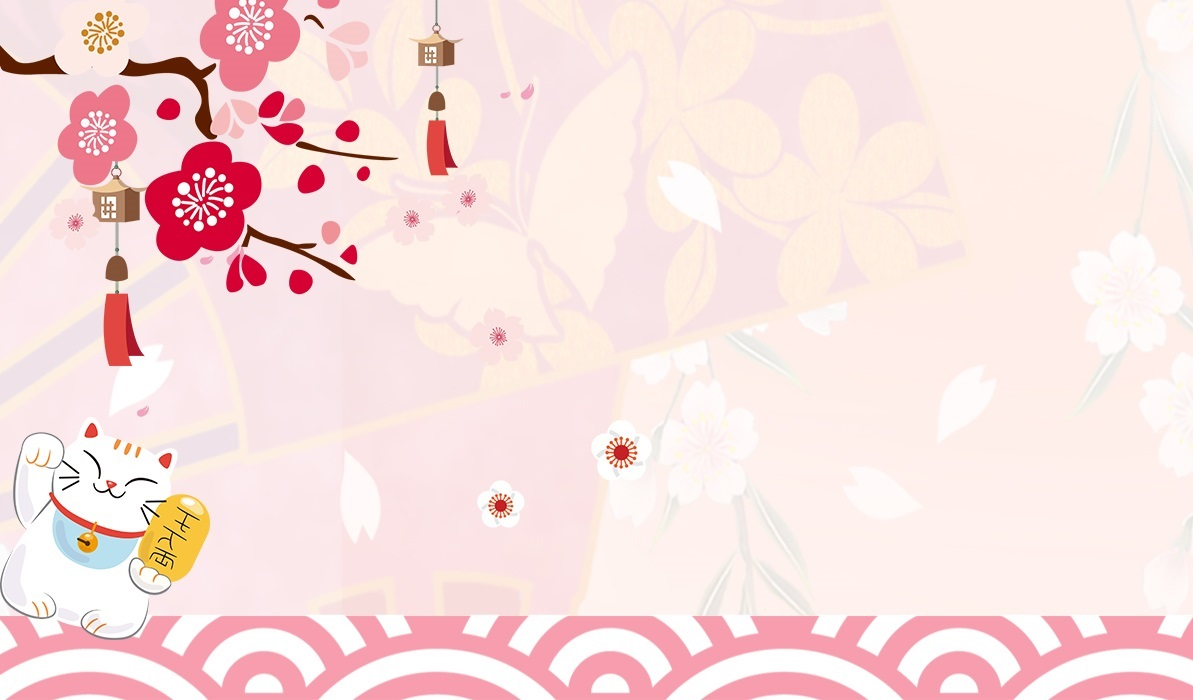
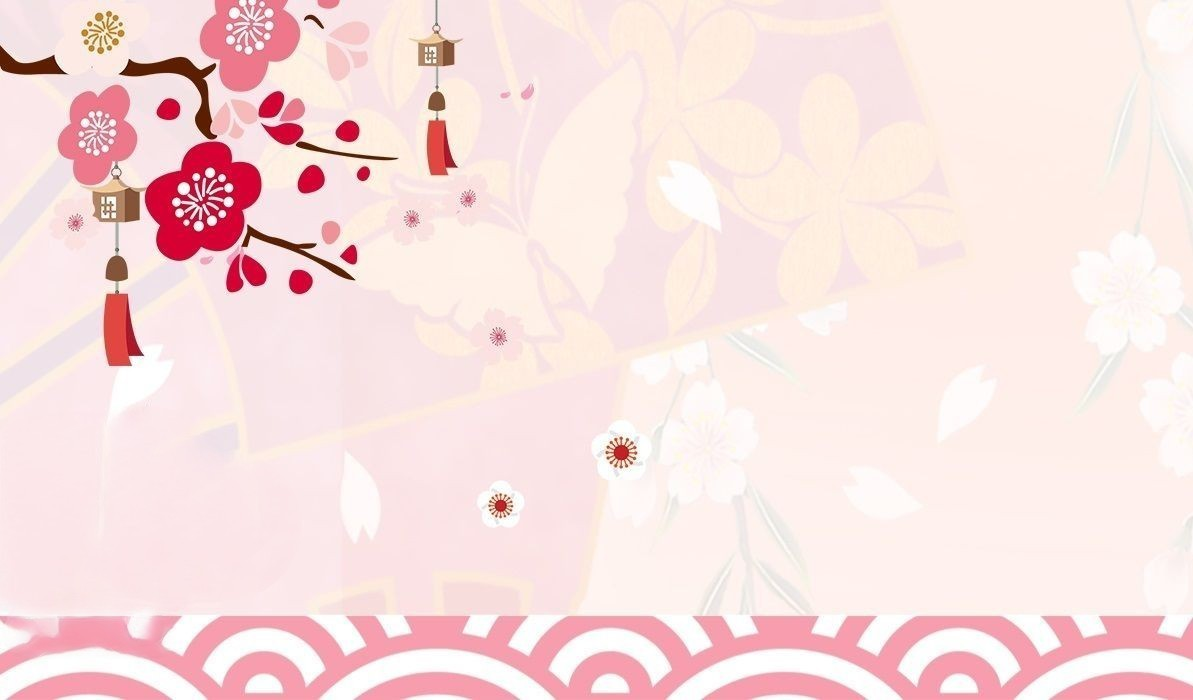
start btn styles

diff --git a/style.css b/style.css
@@ -288,58 +288,146 @@ gap: 20px;
 
 
 #start-game {
+    display: flex;
+    align-items: center;
+    justify-content: center;
     position: absolute;
     bottom: 200px;
-    right: 200px;
+    right: 300px;
     font-family: 'Rubik Bubbles', cursive;
     color: white;
-    padding: 10px 30px;
-    font-size: 50px;
+    padding: 20px 30px;
+    font-size: 60px;
     border: none;
     border: 3px solid rgb(217, 0, 51);
     border-radius: 20px;
     background-color: rgb(217, 0, 51);
     margin: 0 auto;
     cursor: pointer;
+    box-shadow: 0 0 15px rgba(0, 0, 0, 0.3), 0 4px 8px rgba(0, 0, 0, 0.4), 0 8px 20px rgba(0, 0, 0, 0.2) inset;
     transition: 300ms color cubic-bezier(0.075, 0.82, 0.165, 1), 300ms background-color cubic-bezier(0.075, 0.82, 0.165, 1);
 }
 
 
-#start-game:hover, #start-game:focus {
-    background-color: white;
+#start-game:hover span, #start-game:focus span  {
+    /* background-color: white; */
     color: rgb(217, 0, 51);
   
+}
+#start-game:hover, #start-game:focus  {
+    background-color: white;
+    /* color: rgb(217, 0, 51); */
+  
+}
+
+.cat-rules {
+    position: absolute;
+    bottom: -3px;
+    left: 30px;
+    width: 300px;
+    cursor: pointer;
+    -webkit-filter: drop-shadow(1px 1px 0 rgb(217, 0, 51)) drop-shadow(-1px -1px 0 rgb(217, 0, 51));
+    filter: drop-shadow(1px 1px 0 rgb(217, 0, 51)) drop-shadow(-1px -1px 0 rgb(217, 0, 51));
 }
 
 .cloud-rules {
     position: absolute;
-    bottom: 280px;
+    bottom: 340px;
     left: 250px;
-    width: 300px;
-
+    width: 320px;
+    cursor: pointer;
+    -webkit-filter: drop-shadow(1px 1px 0 rgb(217, 0, 51)) drop-shadow(-1px -1px 0 rgb(217, 0, 51));
+    filter: drop-shadow(1px 1px 0 rgb(217, 0, 51)) drop-shadow(-1px -1px 0 rgb(217, 0, 51));
 }
+
+
+
+
 
 #rules-window{
     position: absolute;
-    bottom: 380px;
+    bottom: 510px;
     left: 300px;
 }
 
 #rules {
-        font-family: 'Rubik Bubbles', cursive;
-            width: 100%;
-            height: auto;
-            background-color: transparent;
-            border-radius: 10px;
-            border: none;
-            padding: 10px;
-            font-size: 30px;
-            font-weight: 100;
-            color: black;
-            cursor: pointer;
-            transition: 300ms color cubic-bezier(0.075, 0.82, 0.165, 1), 300ms background-color cubic-bezier(0.075, 0.82, 0.165, 1);
+    font-family: 'Rubik Bubbles', cursive;
+    width: 100%;
+    height: auto;
+    background-color: transparent;
+    border-radius: 10px;
+    border: none;
+    padding: 10px;
+    font-size: 30px;
+    font-weight: 100;
+    color: black;
+    cursor: pointer;
+    transition: 300ms color cubic-bezier(0.075, 0.82, 0.165, 1), 300ms background-color cubic-bezier(0.075, 0.82, 0.165, 1);
 }
 
 #rules:hover, #rules:focus{
    color: rgb(217, 0, 51);
 }
+
+
+@import url("https://fonts.googleapis.com/css2?family=Titan+One&display=swap");
+
+
+.wrapper span {
+    -webkit-text-stroke-width: 1.25px;
+    -webkit-text-stroke-color: #000;
+  
+    text-shadow: 0 2px white, 0 2px rgb(245, 186, 187);
+    transform: translate(0, 20%) rotate(4deg);
+    animation: jump 2s ease-in-out infinite;
+    display: inline-block;
+    font-family: "Titan One", cursive;
+    color: white;
+    transition: 300ms color cubic-bezier(0.075, 0.82, 0.165, 1);
+}
+
+.wrapper span:nth-child(1) {
+    animation-delay: 120ms;
+}
+
+.wrapper span:nth-child(2) {
+    animation-delay: 240ms;
+}
+
+.wrapper span:nth-child(3) {
+    animation-delay: 360ms;
+}
+
+.wrapper span:nth-child(4) {
+    animation-delay: 480ms;
+}
+
+.wrapper span:nth-child(5) {
+    animation-delay: 600ms;
+}
+
+.wrapper span:nth-child(6) {
+    animation-delay: 720ms;
+}
+
+.wrapper span:nth-child(7) {
+    animation-delay: 840ms;
+}
+
+@keyframes jump {
+    33% {
+        /* text-shadow: 0 10px #f37121, 0 50px #f2aaaa; */
+    }
+
+    50% {
+        transform: translate(0, 0) rotate(-4deg);
+        text-shadow: 0 2px black, 0 2px #84a9ac;
+    }
+
+    66.67% {
+        /* text-shadow: 0 -10px #d54062, 0 -50px white; */
+    }
+}
+
+
+

diff --git a/index.html b/index.html
@@ -19,6 +19,19 @@
 
       <ul id="start-window-categories">
         <li class="start-window-item">
+          <h2>Виберіть тип гри:</h2>
+          <button id="game-with-timer" class="btn">Гра з таймером</button>
+          <button id="game-without-timer" class="btn active">
+            Гра без таймера
+          </button>
+        </li>
+        <li class="start-window-item">
+          <h2>Виберіть рівень складності:</h2>
+          <button id="level1" class="btn active">Рівень 1</button>
+          <button id="level2" class="btn">Рівень 2</button>
+          <button id="level3" class="btn">Рівень 3</button>
+        </li>
+        <li class="start-window-item">
           <h2>Виберіть тему:</h2>
           <button id="theme1" type="button" class="topic-btn btn active">
             Морська
@@ -42,22 +55,17 @@
             Щенячий патруль
           </button>
         </li>
-        <li class="start-window-item">
-          <h2>Виберіть рівень складності:</h2>
-          <button id="level1" class="btn active">Рівень 1</button>
-          <button id="level2" class="btn">Рівень 2</button>
-          <button id="level3" class="btn">Рівень 3</button>
-        </li>
-        <li class="start-window-item">
-          <h2>Виберіть тип гри:</h2>
-          <button id="game-with-timer" class=" btn">Гра з таймером</button>
-          <button id="game-without-timer" class=" btn active">
-            Гра без таймера
-          </button>
-        </li>
       </ul>
-      <button id="start-game">Старт</button>
-      <img src="images/cloud.png" alt="cloud-rules" class="cloud-rules" /> 
+      <button id="start-game" class="wrapper">
+        <span>С</span>
+        <span>Т</span>
+        <span>А</span>
+        <span>Р</span>
+        <span>Т</span>
+      </button>
+      <img src="images/cat.gif" alt="cat" class="cat-rules" />
+      <img src="images/cloud.gif" alt="cat" class="cloud-rules" />
+      <div id="rules-window">
         <button id="rules">Правила гри</button>
         <p></p>
       </div>
